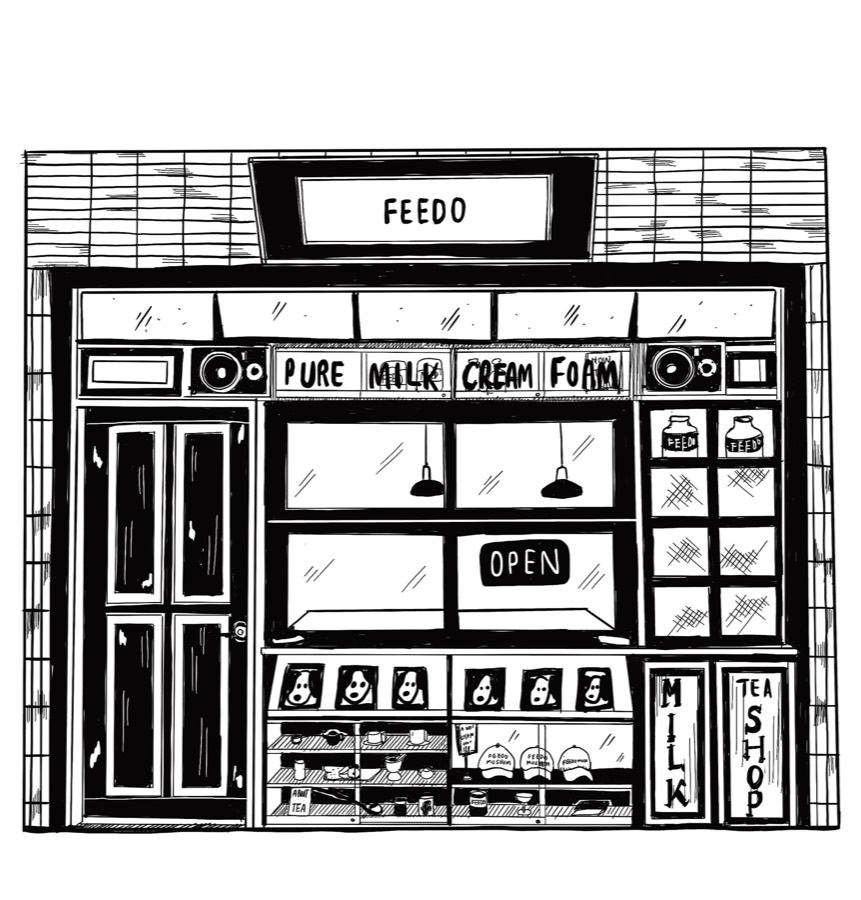
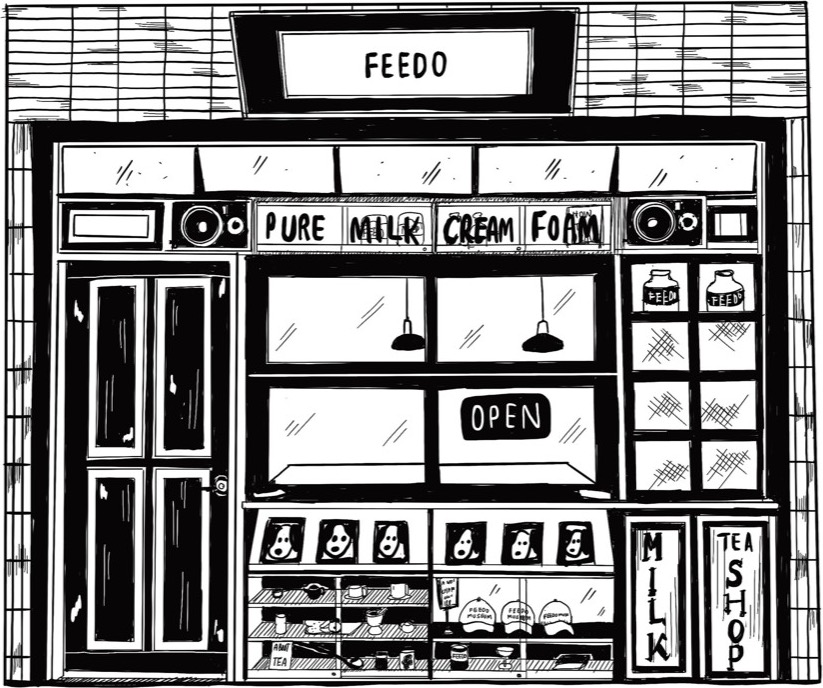
店面線稿裁掉白邊、拿掉外框，讓整張融進版面
原圖 861x900 裡面上方留了 146px、下方 66px 的白邊，上下不對稱，
壓在報紙底色上就是一塊歪掉的白方塊。裁到內容的實際範圍 823x688，
四邊白邊歸零；圖內剩下的白（窗玻璃、招牌）交給 mix-blend-mode:multiply
轉成紙色。外框一併移除，尺寸維持原本的 320px 不放大。

檔名沒變，所以 img 的 src 加上 ?v=20260919，回訪的人才不會拿到快取的舊圖。

diff --git a/cooperation.html b/cooperation.html
@@ -22,7 +22,7 @@
 <link rel="preconnect" href="https://fonts.googleapis.com">
 <link rel="preconnect" href="https://fonts.gstatic.com" crossorigin>
 <link href="https://fonts.googleapis.com/css2?family=Playfair+Display:ital,wght@0,400;0,700;0,900;1,400;1,700;1,900&family=Old+Standard+TT:ital,wght@0,400;0,700;1,400&family=Special+Elite&family=Noto+Serif+TC:wght@300;400;600;900&display=swap" rel="stylesheet">
-<link rel="stylesheet" href="feedo.css?v=20260919e">
+<link rel="stylesheet" href="feedo.css?v=20260919g">
 </head>
 <body>
 <a class="skip" href="#main">跳到主要內容</a>
@@ -133,7 +133,7 @@
       </div>
       <div>
         <figure class="visit-fig">
-          <img src="images/shop-drawing.jpg" alt="FEEDO 店面手繪插畫" width="861" height="900" loading="lazy">
+          <img src="images/shop-drawing.jpg?v=20260919" alt="FEEDO 店面手繪插畫" width="823" height="688" loading="lazy">
         </figure>
         <p class="coop-note">一般飲品訂購與外送不需要走這裡，直接到 <a href="https://order.feedomuseum.com/">茶單與訂購</a> 就可以。其他關於號碼牌、外送範圍與營業的問題，請看 <a href="faq.html">常見問題</a>。</p>
       </div>

diff --git a/feedo.css b/feedo.css
@@ -221,8 +221,9 @@
   .vrow a{display:inline-block;padding:4px 0;margin:-4px 0;}
   .map{border:1.5px solid var(--ink);background:var(--paper-2);min-height:320px;}
   .map iframe{display:block;width:100%;height:100%;min-height:320px;border:0;filter:grayscale(.55) contrast(1.05);}
-  .visit-fig{margin-top:26px;max-width:320px;border:1px solid var(--rule);}
-  /* 店面線稿是白底黑線的 JPG，用 multiply 讓白底吃掉、只留線條落在紙上 */
+  /* 店面線稿：不要外框。圖檔本身的白邊已經裁掉，剩下的白（窗玻璃、招牌）
+     用 multiply 讓它變成紙色，整張融進版面 */
+  .visit-fig{margin-top:22px;max-width:320px;}
   .visit-fig img{mix-blend-mode:multiply;}
 
   /* ===== 報尾 ===== */

diff --git a/index.html b/index.html
@@ -48,7 +48,7 @@
   "sameAs": ["https://www.instagram.com/feedomuseum"]
 }
 </script>
-<link rel="stylesheet" href="feedo.css?v=20260919e">
+<link rel="stylesheet" href="feedo.css?v=20260919g">
 </head>
 <body>
 <a class="skip" href="#main">跳到主要內容</a>
@@ -275,7 +275,7 @@
           <a class="btn" href="https://order.feedomuseum.com/">飲品訂購</a>
         </div>
         <figure class="visit-fig">
-          <img src="images/shop-drawing.jpg" alt="FEEDO 店面手繪插畫" width="861" height="900" loading="lazy">
+          <img src="images/shop-drawing.jpg?v=20260919" alt="FEEDO 店面手繪插畫" width="823" height="688" loading="lazy">
         </figure>
       </div>
       <div class="map">

diff --git a/faq.html b/faq.html
@@ -22,7 +22,7 @@
 <link rel="preconnect" href="https://fonts.googleapis.com">
 <link rel="preconnect" href="https://fonts.gstatic.com" crossorigin>
 <link href="https://fonts.googleapis.com/css2?family=Playfair+Display:ital,wght@0,400;0,700;0,900;1,400;1,700;1,900&family=Old+Standard+TT:ital,wght@0,400;0,700;1,400&family=Special+Elite&family=Noto+Serif+TC:wght@300;400;600;900&display=swap" rel="stylesheet">
-<link rel="stylesheet" href="feedo.css?v=20260919e">
+<link rel="stylesheet" href="feedo.css?v=20260919g">
 </head>
 <body>
 <a class="skip" href="#main">跳到主要內容</a>

diff --git a/story.html b/story.html
@@ -22,7 +22,7 @@
 <link rel="preconnect" href="https://fonts.googleapis.com">
 <link rel="preconnect" href="https://fonts.gstatic.com" crossorigin>
 <link href="https://fonts.googleapis.com/css2?family=Playfair+Display:ital,wght@0,400;0,700;0,900;1,400;1,700;1,900&family=Old+Standard+TT:ital,wght@0,400;0,700;1,400&family=Special+Elite&family=Noto+Serif+TC:wght@300;400;600;900&display=swap" rel="stylesheet">
-<link rel="stylesheet" href="feedo.css?v=20260919e">
+<link rel="stylesheet" href="feedo.css?v=20260919g">
 </head>
 <body>
 <a class="skip" href="#main">跳到主要內容</a>
